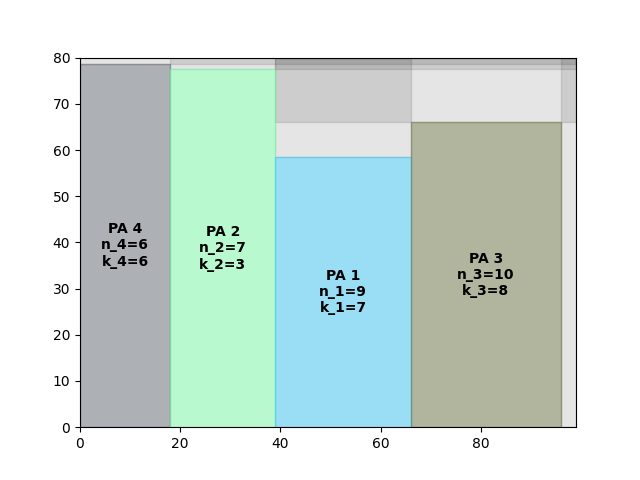
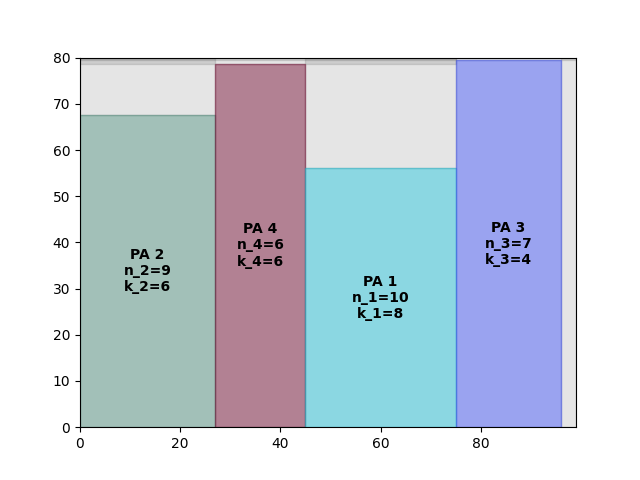
Added some random mutations

diff --git a/classes/genetic_algorithm.py b/classes/genetic_algorithm.py
@@ -1,13 +1,21 @@
 import math
-from random import random
+from random import random, randrange
 import numpy as np
 from classes import Warehouse
 from functions import read_instance, write_instance
 from tqdm import tqdm
 
 
+def get_chromosomes(tup):
+    return tup[0]
+
+
+def get_chromosomes_as_string(tup):
+    return "-".join(str(x) for x in tup[0])
+
+
 class GeneticAlgorithm:
-    def __init__(self, population_size=30, iterations=50, fittest_size=.3, children_size=.3):
+    def __init__(self, population_size=30, iterations=20, fittest_size=.2, children_size=.6):
         # Instantiate warehouse
         self.warehouse = None
 
@@ -52,8 +60,11 @@ class GeneticAlgorithm:
         # Iterate
         last_improvement = 0
         while last_improvement < 1:
-            improved = False
-            print("Starting new set of iterations")
+            # Increment time from last improvement
+            last_improvement = last_improvement + 1
+
+            # Keep track of improvement
+            print("Starting new set of iterations\r\n")
             for i in tqdm(range(self.iterations)):
                 # Create next population
                 self.create_next_population()
@@ -65,15 +76,11 @@ class GeneticAlgorithm:
                         self.obj_value_decrease = self.fittest_obj_value - fittest[0][1]
                         self.fittest_obj_value = fittest[0][1]
                         last_improvement = 0
-                        improved = True
 
-            if improved:
+            if last_improvement == 0:
                 print("\r\nObjective value improved")
             else:
                 print("\r\nObjective value did not improve")
-
-            # Increment time from last improvement
-            last_improvement = last_improvement + 1
 
         # Get final solution
         solution = self.get_final_solution()
@@ -104,9 +111,11 @@ class GeneticAlgorithm:
 
         # Draw solution
         self.warehouse.draw(save=True, filename=f'output/sol{instance}.png')
+        self.warehouse.draw()
 
         # Write output
-        write_instance(instance, self.warehouse.total_travel_distance if self.warehouse.feasible else math.inf, self.warehouse.get_PA_dimensions())
+        write_instance(instance, self.warehouse.total_travel_distance if self.warehouse.feasible else math.inf,
+                       self.warehouse.get_PA_dimensions())
 
     def create_random_chromosome(self):
         # Create random order
@@ -163,11 +172,12 @@ class GeneticAlgorithm:
 
         # Select fittest chromosomes
         fittest = self.select_fittest(int(self.fittest_size * self.population_size))
-        fittest_chromosomes = list(map(self.get_chromosomes, fittest))
+        fittest_chromosomes = list(map(get_chromosomes, fittest))
 
         # Create children from fittest chromosomes
         if len(fittest) > 0:
-            child_chromosomes = self.create_children(fittest_chromosomes, int(self.children_size * self.population_size))
+            child_chromosomes = self.create_children(fittest_chromosomes,
+                                                     int(self.children_size * self.population_size))
         else:
             child_chromosomes = []
 
@@ -217,7 +227,7 @@ class GeneticAlgorithm:
 
     def population_contains(self, chromosome):
         # Stringify each chromosome
-        str_chromosomes = list(map(self.get_chromosomes_as_string, self.population))
+        str_chromosomes = list(map(get_chromosomes_as_string, self.population))
 
         # Stringify chromosome
         str_chromosome = "-".join(str(x) for x in chromosome)
@@ -264,8 +274,6 @@ class GeneticAlgorithm:
 
             # First random number decides which order we inherit
             order = chromosomes[r[0]][:self.N]
-            if random() > .5:
-                np.random.shuffle(order)
 
             # 2 to N+1 decide which number of aisles we inherit from which chromosome
             aisles = []
@@ -277,32 +285,65 @@ class GeneticAlgorithm:
             for j in np.arange(self.N + 1, 2 * self.N + 1):
                 cross_aisles.append(chromosomes[r[j]][self.N + j - 1])
 
-            # Mutate
-            aisles_mutation = np.random.randint(-1, 1, size=self.N)
-            aisles = np.array(aisles)
-            aisles = aisles + aisles_mutation
-            aisles[aisles < 1] = 1
-            aisles[aisles > 30] = 30
-
-            cross_aisles_mutation = np.random.randint(-1, 1, size=self.N)
-            cross_aisles = np.array(cross_aisles)
-            cross_aisles = cross_aisles + cross_aisles_mutation
-            cross_aisles[cross_aisles < 2] = 2
-            cross_aisles[cross_aisles > 10] = 10
-
             # Create child
             child = [*order, *aisles, *cross_aisles]
+
+            # Mutate child
+            self.mutate(child)
 
             # Append child
             children.append(child)
 
         return children
 
-    def get_chromosomes(self, tup):
-        return tup[0]
+    def mutate(self, chromosome):
+        # Mutation
+        mutation = random()
 
-    def get_chromosomes_as_string(self, tup):
-        return "-".join(str(x) for x in tup[0])
+        # Change a single aisle
+        if .8 < mutation < .9:
+            index = randrange(self.N-1)
+            change = 1 if random() < .75 else -1
+            chromosome[self.N+index] = chromosome[self.N+index] + change
+            chromosome[self.N+index] = chromosome[self.N+index] if chromosome[self.N+index] <= self.n_max else self.n_max
+            chromosome[self.N+index] = chromosome[self.N+index] if chromosome[self.N+index] >= self.n_min[index] else self.n_min[index]
+
+        # Change a single cross-aisle
+        if .9 < mutation:
+            index = randrange(self.N-1)
+            change = 1 if random() < .25 else -1
+            chromosome[2*self.N+index] = chromosome[2*self.N+index] + change
+            chromosome[2*self.N+index] = chromosome[2*self.N+index] if chromosome[2*self.N+index] <= 10 else 10
+            chromosome[2*self.N+index] = chromosome[2*self.N+index] if chromosome[2*self.N+index] >= 2 else 2
+
+        # Randomly mutate order
+        if .2 < mutation < .8:
+            order = chromosome[:self.N]
+            np.random.shuffle(order)
+            chromosome[:self.N] = order
+
+        # Randomly mutate aisles
+        if .1 < mutation < .2:
+            aisles = chromosome[self.N:2 * self.N]
+            aisles_mutation = np.random.randint(-1, 2, size=self.N)
+            aisles = np.array(aisles)
+            aisles = aisles + aisles_mutation
+            aisles[aisles < self.n_min] = self.n_min[aisles < self.n_min]
+            aisles[aisles > self.n_max] = self.n_max
+            chromosome[self.N:2 * self.N] = aisles
+
+        # Randomly utate cross-aisles
+        if mutation < .1:
+            cross_aisles = chromosome[2 * self.N:3 * self.N]
+            cross_aisles_mutation = np.random.randint(-1, 2, size=self.N)
+            cross_aisles = np.array(cross_aisles)
+            cross_aisles = cross_aisles + cross_aisles_mutation
+            cross_aisles[cross_aisles < 2] = 2
+            cross_aisles[cross_aisles > 10] = 10
+            chromosome[self.N:2 * self.N] = cross_aisles
+
+        # Return mutated chromosome
+        return chromosome
 
     def get_chromosome(self, index):
         # Get chromosome from population
@@ -320,7 +361,6 @@ class GeneticAlgorithm:
 
     def get_fittest_chromosome(self):
         return self.select_fittest(1)[0][0]
-
 
     def get_final_solution(self):
         fittest = self.select_fittest(1)

diff --git a/functions/data_handling.py b/functions/data_handling.py
@@ -101,7 +101,8 @@ def write_instance(instance, obj_value, coordinates):
 
     # Write coordinates
     for coordinate in coordinates:
-        f.write(",".join(str(x) for x in coordinate) + "\n")
+        x, y, n, k = coordinate
+        f.write(str('%.2f' % x) + "," + str('%.2f' % y) + "," + str(int(n)) + "," + str(int(k)) + "\n")
 
     # Close CSV file
     f.close()

diff --git a/main.py b/main.py
@@ -1,10 +1,6 @@
-import numpy as np
-from functions import read_instance, write_instance
-from classes import Warehouse, GeneticAlgorithm
-import math
-
-
+from classes import GeneticAlgorithm
 
 # Instantiate genetic algorithm
 algorithm = GeneticAlgorithm()
 algorithm.run(2)
+
